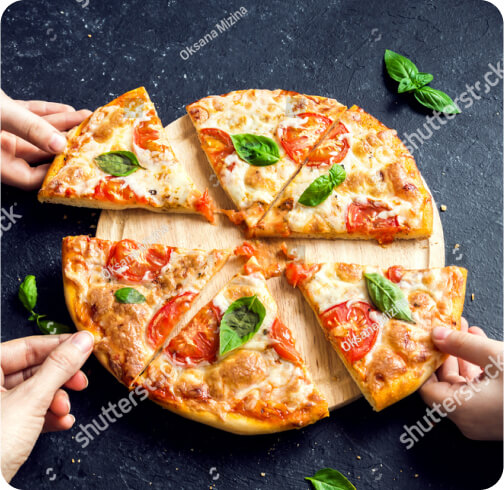
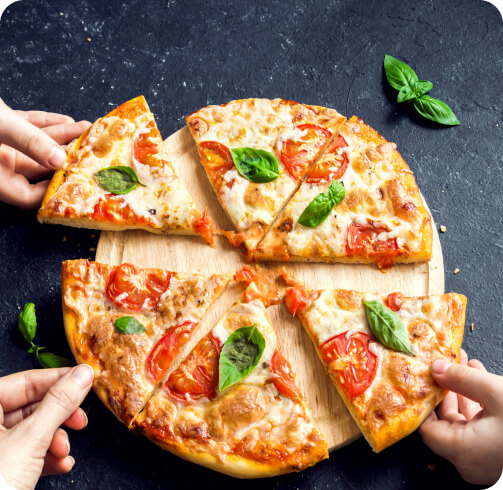
fix:qas

diff --git a/src/index.html b/src/index.html
@@ -130,8 +130,8 @@
                                             texto-badge="-25%"
                                             titulo="Benedetti´s"
                                             descripcion="Pizza y descuentos, el plan perfecto con tu tarjeta. "
-                                            imagen="img/home/Imagen-3.jpeg"
-                                            imagenWebp="img/home/Imagen-3.webp"
+                                            imagen="img/promo-bene.png"
+                                            imagenWebp="img/promo-bene.webp"
                                             link="promocion-benedettis.html"
                                         ></custom-card>
                                     </div>
@@ -288,7 +288,7 @@
         <script type="module" src="./js/main.js"></script>
         <script type="module" src="./js/home.js"></script>
         <script type="module" src="./js/layout/promociones.js"></script>
-        <script type="module"  src="./js/medicion.js"></script>
+        <script src="./js/medicion.js"></script>
 
         <script>
             document.addEventListener('DOMContentLoaded', function () {

diff --git a/src/scss/pages/_miapp.scss b/src/scss/pages/_miapp.scss
@@ -161,7 +161,7 @@
 
     .compras{
         overflow: hidden;
-        padding: 6rem 0 !important;
+        padding: 6rem 0;
         &--info{
            h2.title-underline{
              @include text-lg-48;
@@ -176,9 +176,11 @@
         &--carousel{
           
             width: 90%;
+            padding:0 128px;
             height: 600px;
             margin: 0 auto 1rem auto;
-            padding-left: 128px;
+            // padding-left: 128px;
+          
             position: relative;
            
             
@@ -189,6 +191,11 @@
             .swiper-slide:first-child{
                 
                 margin-left:0 !important;
+            }            
+
+            .swiper-slide:last-child{
+                
+                margin-right:0 !important;
             }
             
             .swiper-button-next,
@@ -268,8 +275,8 @@
       
 
         &--carousel{
-            padding:0 3rem;
-            width: 70%;
+            // padding:0 3rem;
+            padding:0 192px;
             height: 600px;
             margin: 0 auto 1rem auto;
             // padding-left: 128px;

diff --git a/src/js/mi-app.js b/src/js/mi-app.js
@@ -1,6 +1,8 @@
 const enableSwiper = new Swiper(".swiper", {
         spaceBetween: 16,
         slidesPerView: 'auto',
+       
+        
         
        
         // Responsive breakpoints
@@ -16,8 +18,10 @@ const enableSwiper = new Swiper(".swiper", {
                 //     cols: 2,
                 //   },
             slidesPerView: 3,
-            slidesPerGroup:3,
-            spaceBetween: 32
+            slidesPerGroup:3,            
+            spaceBetween: 16,
+            autoHeight:true
+            
             },
             1920: {
                 // grid: {
@@ -25,7 +29,12 @@ const enableSwiper = new Swiper(".swiper", {
                 //   },
             slidesPerView: 3,
             slidesPerGroup:3,
-            spaceBetween: 128
+            spaceBetween: 192,
+            autoHeight:true
+            // centeredSlides:true,
+            // centeredSlidesBounds:true,
+
+           
             }
         },
         direction: "horizontal",

diff --git a/src/preguntas-frecuentes.html b/src/preguntas-frecuentes.html
@@ -77,7 +77,7 @@
         <custom-footer></custom-footer>
         <script type="module" src="./js/main.js"></script>
         <script type="module" src="./js/preguntas-frecuentes.js"></script>
-        <script type="module"  src="./js/medicion.js"></script>
+        <script src="./js/medicion.js"></script>
         <script>
             document.addEventListener('DOMContentLoaded', function () {
                 metrica7();    

diff --git a/src/mi-tarjeta.html b/src/mi-tarjeta.html
@@ -228,7 +228,7 @@
         <custom-footer></custom-footer>
         <script type="module" src="./js/main.js"></script>
         <script type="module" src="./js/mi-tarjeta.js"></script>
-        <script type="module"  src="./js/medicion.js"></script>
+        <script src="./js/medicion.js"></script>
         <script>
             document.addEventListener('DOMContentLoaded', function () {
                 metrica4();

diff --git a/src/promocion-andrea.html b/src/promocion-andrea.html
@@ -101,7 +101,7 @@
             link-btn-salida="https://www.mx.andrea.com"
         ></modal-salida>
         <script type="module" src="./js/main.js"></script>
-        <script type="module"  src="./js/medicion.js"></script>
+        <script src="./js/medicion.js"></script>
         <script>
             document.addEventListener('DOMContentLoaded', function () {
                 metrica2('Andrea');

diff --git a/src/mi-app.html b/src/mi-app.html
@@ -207,7 +207,7 @@
 
         <script type="module" src="./js/main.js"></script>
         <script type="module" src="./js/mi-app.js"></script>
-        <script type="module"  src="./js/medicion.js"></script>
+        <script src="./js/medicion.js"></script>
         <script>
             document.addEventListener('DOMContentLoaded', function () {
                 metrica6();               

diff --git a/src/promocion-burguer-king.html b/src/promocion-burguer-king.html
@@ -108,7 +108,7 @@
         </main>
         <custom-footer></custom-footer>
         <script type="module" src="./js/main.js"></script>
-        <script type="module"  src="./js/medicion.js"></script>
+        <script src="./js/medicion.js"></script>
         <script>
             document.addEventListener('DOMContentLoaded', function () {
                 metrica2("Burger King");

diff --git a/src/promocion-benedettis.html b/src/promocion-benedettis.html
@@ -86,7 +86,7 @@
         </main>
         <custom-footer></custom-footer>
         <script type="module" src="./js/main.js"></script>
-        <script type="module"  src="./js/medicion.js"></script>
+        <script src="./js/medicion.js"></script>
         <script>
             document.addEventListener('DOMContentLoaded', function () {
                 metrica2("Benedettis");

diff --git a/src/promocion-vitau.html b/src/promocion-vitau.html
@@ -106,7 +106,7 @@
         ></modal-salida>
 
         <script type="module" src="./js/main.js"></script>
-        <script type="module"  src="./js/medicion.js"></script>
+        <script src="./js/medicion.js"></script>
         <script>
             document.addEventListener('DOMContentLoaded', function () {
                 metrica2("Farmacias VITAU");

diff --git a/src/scss/components/accordion.scss b/src/scss/components/accordion.scss
@@ -6,7 +6,7 @@
         @include text-md-20;
         font-family: var(--font-primaria-bold);
         padding: 1.125rem 0;
-        font-weight: 700;
+        // font-weight: 700;
         column-gap: 1rem;
     }
 
